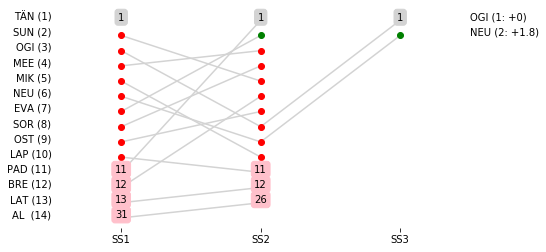
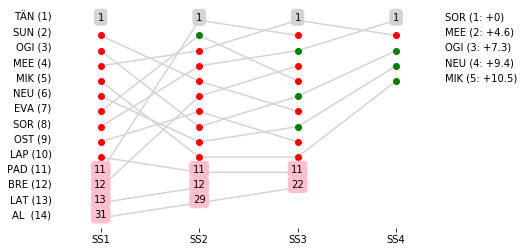
update during live ss4

diff --git a/SS3_report.md b/SS3_report.md
@@ -1,9 +1,9 @@
-# Stage Progress Chart - Portugal, 2018 - OGI - SS3
+# Stage Progress Chart - Portugal, 2018 - MEE - SS3
 
-![](images/stage_report_3_OGI.png)
-# Stage Overall Split Delta Chart - Portugal, 2018 - OGI - SS3
+![](images/stage_report_3_MEE.png)
+# Stage Overall Split Delta Chart - Portugal, 2018 - MEE - SS3
 
-![](images/stage_report_split_delta_3_OGI.png)
-# Stage Within Split Delta Chart - Portugal, 2018 - OGI - SS3
+![](images/stage_report_split_delta_3_MEE.png)
+# Stage Within Split Delta Chart - Portugal, 2018 - MEE - SS3
 
-![](images/stage_report_individual_split_delta_3_OGI.png)
+![](images/stage_report_individual_split_delta_3_MEE.png)
